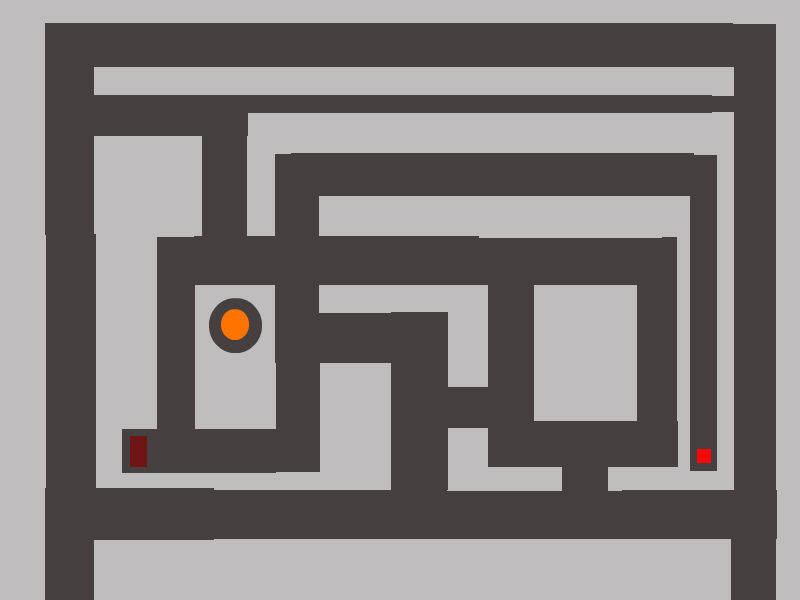
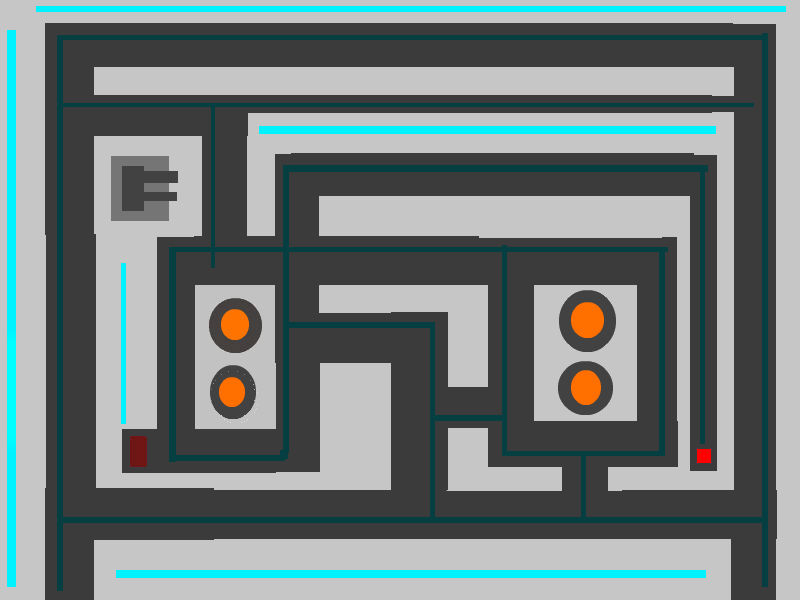
Day 5

diff --git a/src/section5/ScaryMaze.java b/src/section5/ScaryMaze.java
@@ -16,6 +16,8 @@ import javax.swing.JOptionPane;
 import javax.swing.JPanel;
 import javax.swing.SwingUtilities;
 
+import javafx.scene.input.MouseButton;
+
 public class ScaryMaze extends JPanel implements Runnable, MouseMotionListener {
 	
 	BufferedImage maze;
@@ -24,15 +26,16 @@ public class ScaryMaze extends JPanel implements Runnable, MouseMotionListener {
 
 	ScaryMaze() throws Exception {
 		//1. Use this online tool to make a maze image and drop it into your section5 package: http://pixlr.com/editor/
-		//maze = ImageIO.read(getClass().getResource("standardMaze.jpg"));
+		maze = ImageIO.read(getClass().getResource("standardMaze.jpg"));
 		//2. Change the line of code above so that it matches your maze's file name
 		
 		//3. Set the mouse pointer to the start of your maze using:
 		//new Robot().mouseMove(45, 95);
+		new Robot().mouseMove(75, 600);
 		
 		//4. Add a mouse motion listener using:
 		//addMouseMotionListener(this);
-		
+		addMouseMotionListener(this);
 	}
 
 	@Override
@@ -41,32 +44,46 @@ public class ScaryMaze extends JPanel implements Runnable, MouseMotionListener {
 		int mouseY = e.getY();
 		int mouseColor = maze.getRGB(mouseX, mouseY);
 		//5. Print the mouseColor variable 
-		
+		System.out.println(mouseColor);
 		//6.  Run your program and put your mouse over the background to find out what color it is
 		
 		//7. Create an int variable that holds the background color. 
-		
+		int backgroundColor=-3750202;
+		//background color is c6c6c6, or 198-198-198
+		//path color is 3b3b3b or 59-59-59
+		//also 053e40 or 5-62-64
 		//8. If the mouse falls off the path (if it is on the background)
+		if (mouseColor==backgroundColor) {
 	
 				// call the scare method
+			scare();
+			
+		}
 		
 		//13. If the mouse is on the end color
+		int endColor=-587248;
+		//end color is 255-0-0 or ff0000
+		if (mouseColor==endColor) {
+			JOptionPane.showMessageDialog(null, "Congratulations, you won.");
+		}
 		
 				// pop up a message to tell them they won
 		
 	}
+
 
 	private void scare() {
 		System.out.println("BOO!");
 		//9. Find a scary sound and put it in the section5 package where you put your maze picture. You can find a sound on freesound.org. Log in as leagueofamazing/code4life.
 		
 		//10. Use the code below to load your sound.  Change the file name to match the name of your sound file.  
-		//AudioClip sound = JApplet.newAudioClip(getClass().getResource("standardScarySound.wav"));
+		AudioClip sound = JApplet.newAudioClip(getClass().getResource("standardScarySound.wav"));
 		
 		//11. Play the scary sound. Hint: type "sound" and then a period.		
-		
+		sound.play();
+		JOptionPane.showMessageDialog(null, "It worked.");
 		//12. Drop an image into your section5 package, and use the showScaryImage method to scare your victim!
-		
+		showScaryImage("standardScaryPicture.jpg");
 	}
 
 	private void showScaryImage(String imageName) {

diff --git a/src/section5/RandomThingy.java b/src/section5/RandomThingy.java
@@ -1,0 +1,69 @@
+package section5;
+
+import java.util.Random;
+
+import javax.swing.JOptionPane;
+
+public class RandomThingy {
+
+	public static void main(String[] args) {
+		
+		Random random=new Random();
+		int disaster=0;
+		int frm=8;
+		int lrd=8;
+		int rylty=8;
+		int arm=8;
+		int mrct=8;
+		int crch=8;
+		int econ=100;
+		int wlth=1000;
+		int ppl=1000000;
+		int army=50000;
+		int nextQuestion=0;
+		int question=0;
+		
+		for (int loops=0;loops<100;loops++) {
+		JOptionPane.showMessageDialog(null, "Farmer happiness: "+frm+"\nNobles happiness: "+lrd+"\nRoyalty happiness: "+rylty
+		+"\nArmy happiness: "+arm+"\nMerchant happiness: "+mrct+"\nChurch happiness: "+crch+"\nEconomy: "+econ+"\nWealth: "+wlth+"\nPopulation: "+ppl+"\nArmy: "+army);	
+		if (nextQuestion<=0) {
+		question=random.nextInt(10);
+		} else {
+			question=nextQuestion--;
+		}
+		
+		if (question==0) {
+			String choice=JOptionPane.showInputDialog(null, "Recent battle with enemy forces-Continue or retreat?");
+			if (choice.equalsIgnoreCase("Continue")) {
+				rylty++;
+				arm=arm-2;
+				army=army-10000;
+			} else if (choice.equalsIgnoreCase("Retreat")) {
+				rylty--;
+				arm++;
+				wlth=wlth-100000;
+			}
+		} else if (question==1) {
+			String choice=JOptionPane.showInputDialog(null, "Recent lack of enlistment-Implement punishments to families who have not enlisted?") {
+				if (choice.equalsIgnoreCase("Yes")){
+					arm=arm+3;
+					army=army+5000;
+					wlth=wlth+100;
+					frm=frm-2;
+					crch--;
+				} else if (choice.equalsIgnoreCase("No")) {
+					arm--;
+					army=army-5000;
+					frm++;
+				} else {JOptionPane.showMessageDialog(null, "Sorry, I do not understand.");
+					nextQuestion=2;
+				}
+			}
+		} else if (question==2) {
+			String choice=JOptionPane.showInputDialog(null,"");
+		}
+		
+		}
+	}
+
+}
